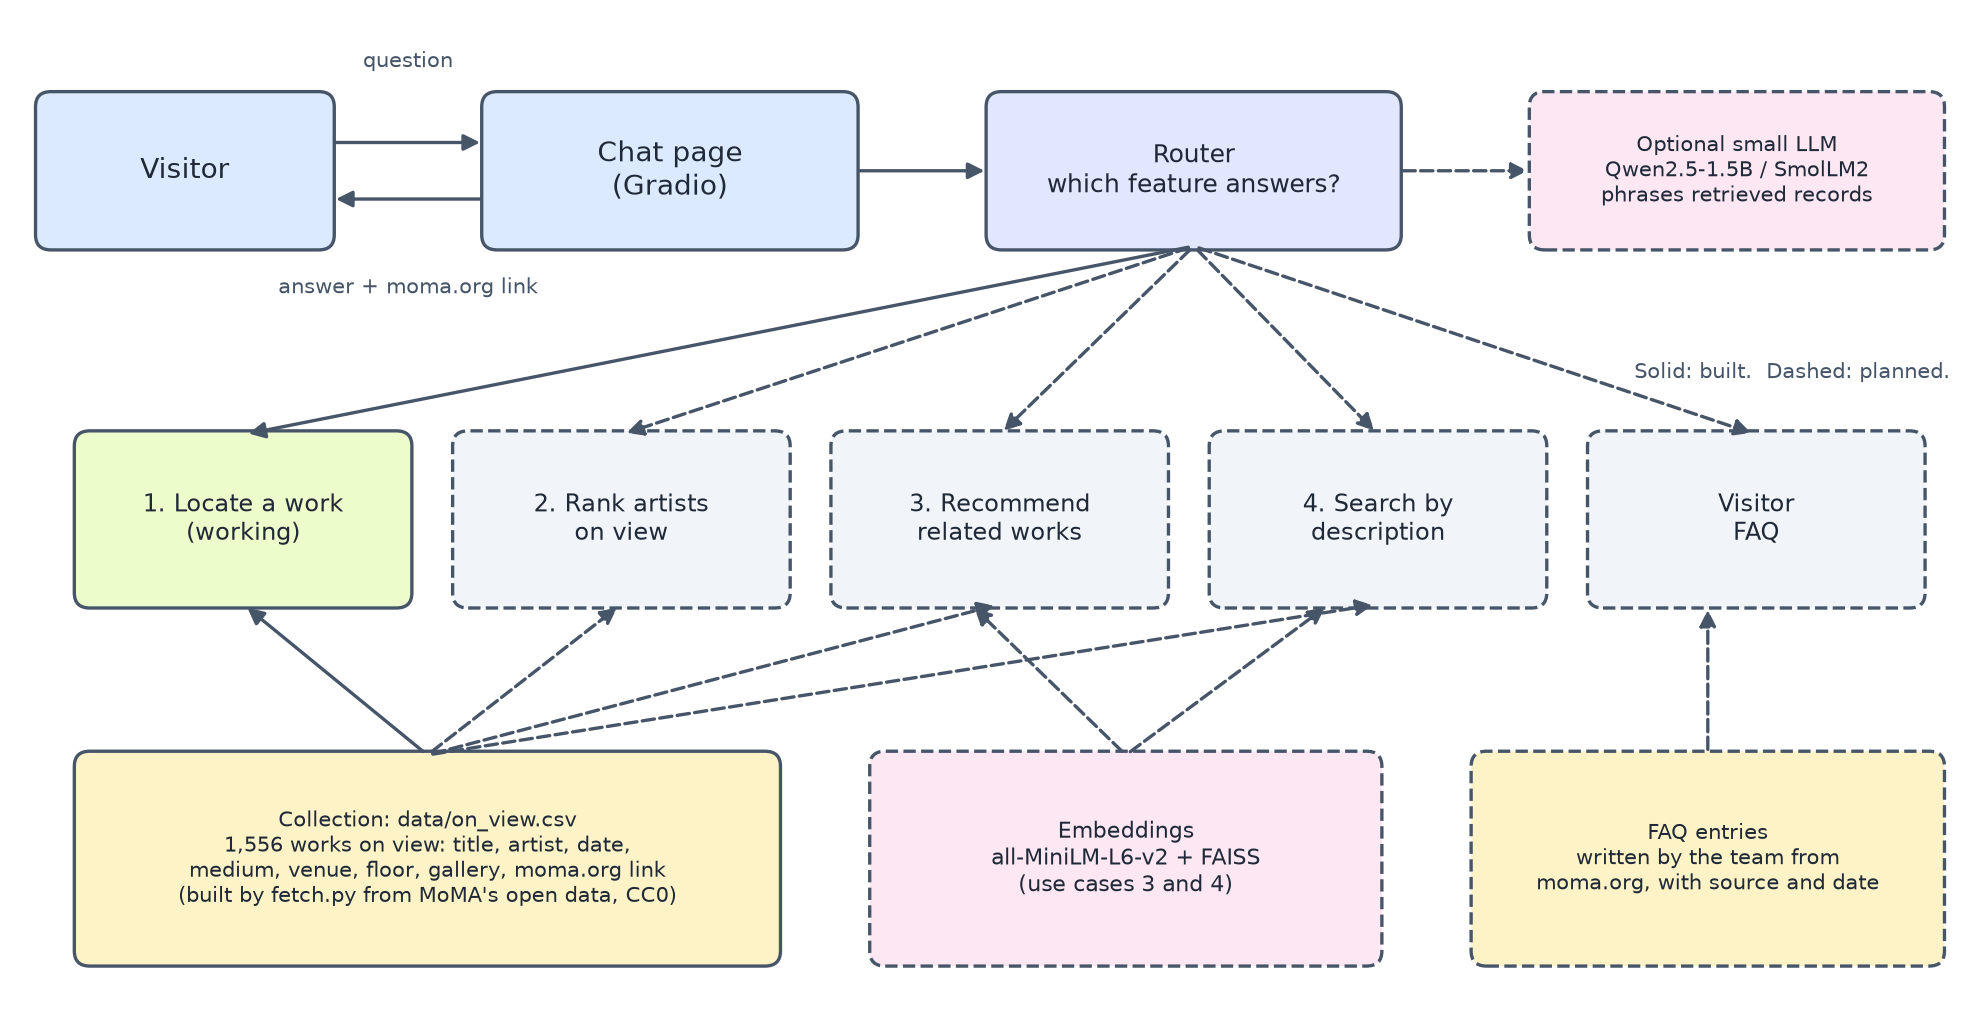
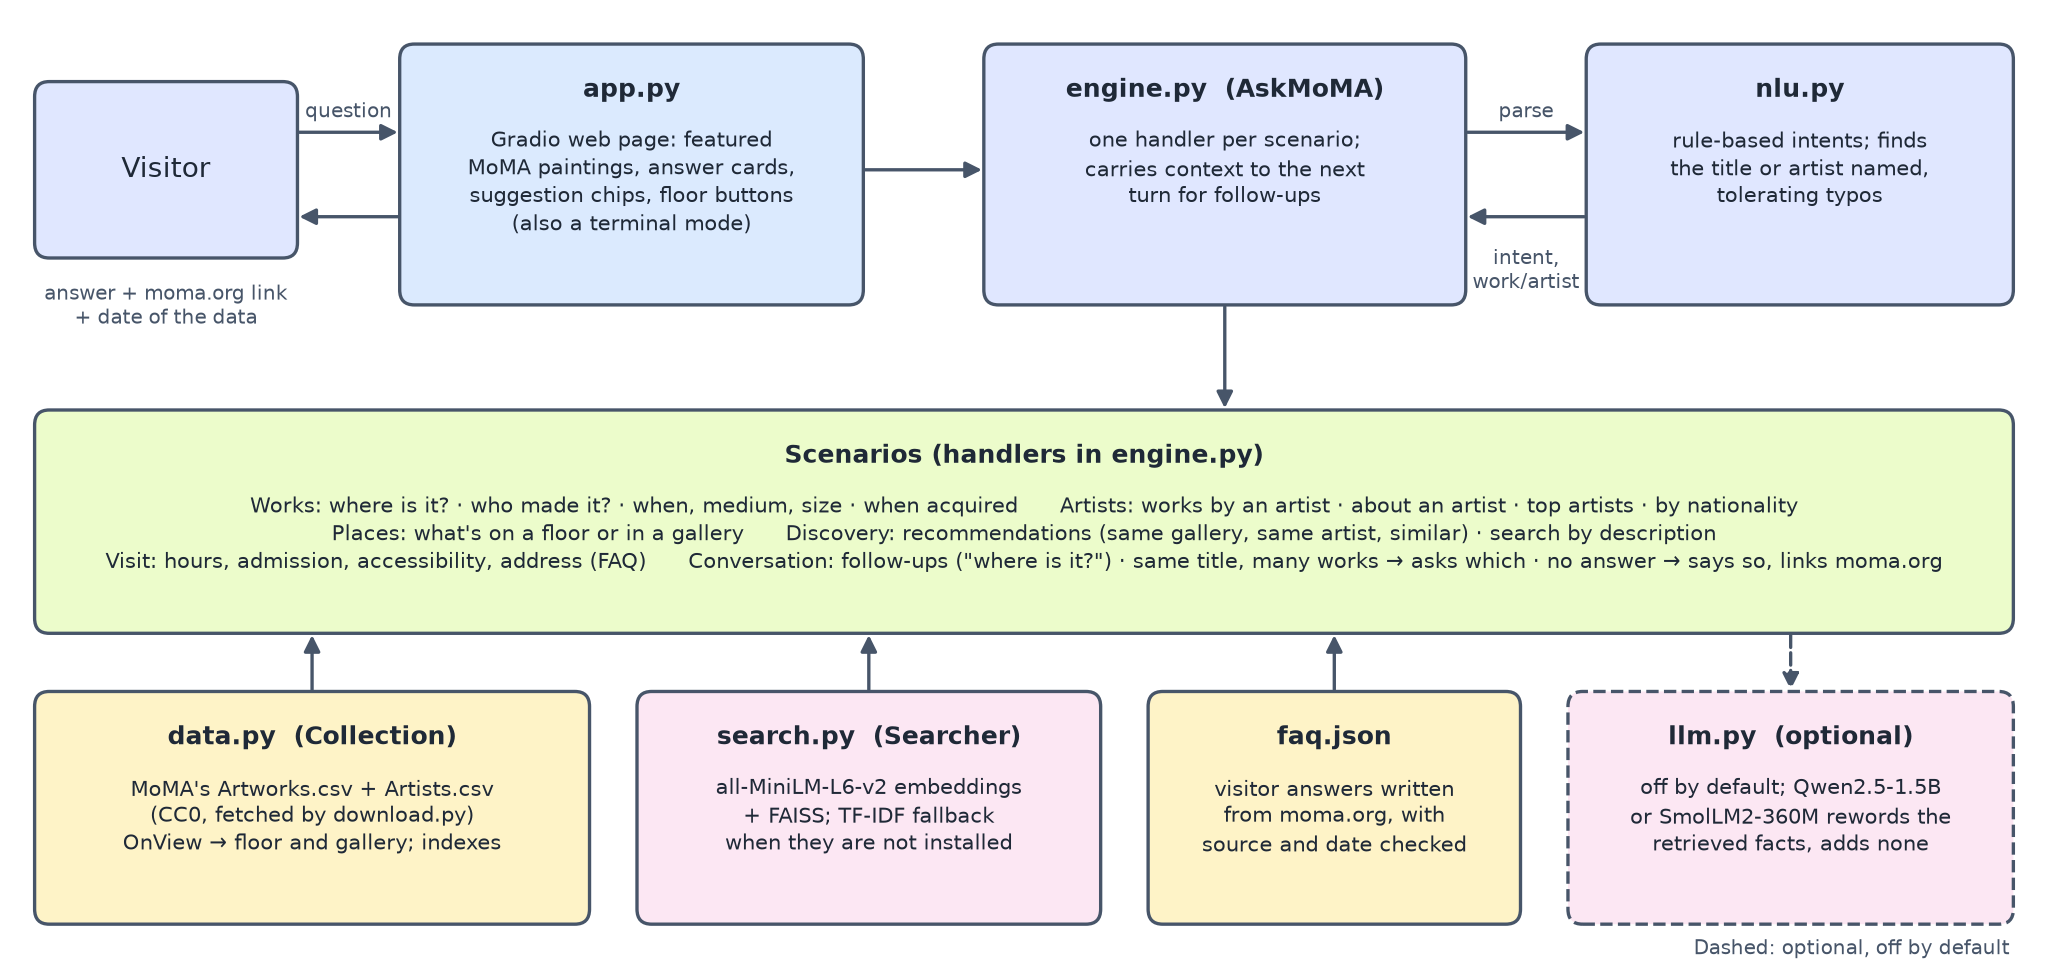
Docs: architecture diagram for the current modules, shown in the README (#1)
* Redraw the architecture diagram for the current modules and show it in the README

The old diagram showed the src/askmoma layout that main no longer uses. The new one shows app.py, engine.py, nlu.py, the scenario handlers, data.py, search.py, faq.json, and the optional llm.py, as they are on main. Docs only: no code changes.

* Show the featured paintings from the UI refresh in the diagram

* Add the featured paintings to the app.py box

The previous commit only re-rendered the image; this adds the text it described.

diff --git a/docs/figures/architecture.py b/docs/figures/architecture.py
@@ -1,6 +1,9 @@
-"""Draw docs/figures/architecture.png, the system diagram used in the design document.
+"""Draw docs/figures/architecture.png, the one system diagram (README and design document).
 
-uv run python docs/figures/architecture.py
+    uv run python docs/figures/architecture.py
+
+It shows the modules in askmoma/ and app.py as they are on main. Update it
+when a module is added or renamed, so the README never shows an old design.
 """
 
 from __future__ import annotations
@@ -15,65 +18,78 @@ from matplotlib.patches import FancyArrowPatch, FancyBboxPatch  # noqa: E402
 
 OUT = Path(__file__).with_suffix(".png")
 INK, LINE = "#1f2937", "#475569"
-FILL = {"ui": "#dbeafe", "logic": "#e0e7ff", "feature": "#ecfccb", "todo": "#f1f5f9",
-        "data": "#fef3c7", "model": "#fce7f3"}  # fmt: skip
+FILL = {"ui": "#dbeafe", "logic": "#e0e7ff", "scenario": "#ecfccb", "data": "#fef3c7", "model": "#fce7f3"}
 
 
-def box(ax, x, y, w, h, text, kind, dashed=False, size=9):
+def box(ax, x, y, w, h, title, body="", kind="logic", dashed=False):
     ax.add_patch(FancyBboxPatch((x, y), w, h, boxstyle="round,pad=0.02,rounding_size=0.08",
                                 facecolor=FILL[kind], edgecolor=LINE, linewidth=1.2,
                                 linestyle="--" if dashed else "-"))  # fmt: skip
-    ax.text(x + w / 2, y + h / 2, text, ha="center", va="center", fontsize=size, color=INK)
+    if body:
+        ax.text(
+            x + w / 2, y + h - 0.16, title, ha="center", va="top", fontsize=9, fontweight="bold", color=INK
+        )
+        ax.text(
+            x + w / 2, y + h - 0.42, body, ha="center", va="top", fontsize=7.4, color=INK, linespacing=1.35
+        )
+    else:
+        ax.text(x + w / 2, y + h / 2, title, ha="center", va="center", fontsize=10, color=INK)
 
 
-def arrow(ax, start, end, dashed=False):
+def arrow(ax, start, end, label="", dashed=False, offset=(0, 0.08)):
     ax.add_patch(FancyArrowPatch(start, end, arrowstyle="-|>", mutation_scale=12, color=LINE,
                                  linewidth=1.2, linestyle="--" if dashed else "-"))  # fmt: skip
+    if label:
+        x, y = (start[0] + end[0]) / 2 + offset[0], (start[1] + end[1]) / 2 + offset[1]
+        ax.text(x, y, label, ha="center", fontsize=7.2, color=LINE)
 
 
 def main() -> None:
-    fig, ax = plt.subplots(figsize=(10, 5.2), dpi=200)
-    ax.set_xlim(0, 10)
-    ax.set_ylim(0, 5.2)
+    fig, ax = plt.subplots(figsize=(11, 5.0), dpi=200)
+    ax.set_xlim(0, 11)
+    ax.set_ylim(0, 5.0)
     ax.axis("off")
 
-    # Top row: the conversation path, and the optional language model beside the router.
-    box(ax, 0.1, 4.0, 1.5, 0.8, "Visitor", "ui", size=10)
-    box(ax, 2.4, 4.0, 1.9, 0.8, "Chat page\n(Gradio)", "ui", size=10)
-    box(ax, 5.0, 4.0, 2.1, 0.8, "Router\nwhich feature answers?", "logic")
-    box(ax, 7.8, 4.0, 2.1, 0.8, "Optional small LLM\nQwen2.5-1.5B / SmolLM2\nphrases retrieved records",
-        "model", dashed=True, size=7.5)  # fmt: skip
-    arrow(ax, (1.6, 4.55), (2.4, 4.55))
-    arrow(ax, (2.4, 4.25), (1.6, 4.25))
-    ax.text(2.0, 4.95, "question", fontsize=7.5, color=LINE, ha="center")
-    ax.text(2.0, 3.75, "answer + moma.org link", fontsize=7.5, color=LINE, ha="center")
-    arrow(ax, (4.3, 4.4), (5.0, 4.4))
-    arrow(ax, (7.1, 4.4), (7.8, 4.4), dashed=True)
+    # Top row: the conversation path.
+    box(ax, 0.1, 3.75, 1.4, 0.9, "Visitor")
+    box(ax, 2.1, 3.5, 2.5, 1.35, "app.py", "Gradio web page: featured\nMoMA paintings, answer cards,\nsuggestion chips, floor buttons\n(also a terminal mode)", "ui")  # fmt: skip
+    box(ax, 5.3, 3.5, 2.6, 1.35, "engine.py  (AskMoMA)", "one handler per scenario;\ncarries context to the next\nturn for follow-ups", "logic")  # fmt: skip
+    box(ax, 8.6, 3.5, 2.3, 1.35, "nlu.py", "rule-based intents; finds\nthe title or artist named,\ntolerating typos", "logic")  # fmt: skip
+    arrow(ax, (1.5, 4.4), (2.1, 4.4), "question")
+    arrow(ax, (2.1, 3.95), (1.5, 3.95))
+    ax.text(
+        0.8,
+        3.6,
+        "answer + moma.org link\n+ date of the data",
+        ha="center",
+        va="top",
+        fontsize=7.2,
+        color=LINE,
+    )
+    arrow(ax, (4.6, 4.2), (5.3, 4.2))
+    arrow(ax, (7.9, 4.4), (8.6, 4.4), "parse")
+    arrow(ax, (8.6, 3.95), (7.9, 3.95), "intent,\nwork/artist", offset=(0, -0.38))
 
-    # Middle row: one module per use case. Solid = built, dashed = planned.
-    features = [("1. Locate a work\n(working)", "feature", False), ("2. Rank artists\non view", "todo", True),
-                ("3. Recommend\nrelated works", "todo", True), ("4. Search by\ndescription", "todo", True),
-                ("Visitor\nFAQ", "todo", True)]  # fmt: skip
-    for i, (label, kind, dashed) in enumerate(features):
-        x = 0.3 + i * 1.95
-        box(ax, x, 2.1, 1.7, 0.9, label, kind, dashed=dashed, size=8.5)
-        arrow(ax, (6.05, 4.0), (x + 0.85, 3.0), dashed=dashed)
+    # Middle: what the handlers answer.
+    box(ax, 0.1, 1.75, 10.8, 1.15, "Scenarios (handlers in engine.py)",
+        "Works: where is it? · who made it? · when, medium, size · when acquired      "
+        "Artists: works by an artist · about an artist · top artists · by nationality\n"
+        "Places: what's on a floor or in a gallery      Discovery: recommendations (same gallery, same artist, similar) · search by description\n"
+        "Visit: hours, admission, accessibility, address (FAQ)      "
+        "Conversation: follow-ups (\"where is it?\") · same title, many works → asks which · no answer → says so, links moma.org",
+        "scenario")  # fmt: skip
+    arrow(ax, (6.6, 3.5), (6.6, 2.9))
 
-    # Bottom row: what the features read.
-    box(ax, 0.3, 0.2, 3.6, 1.1, "Collection: data/on_view.csv\n1,556 works on view: title, artist, date,\n"
-        "medium, venue, floor, gallery, moma.org link\n(built by fetch.py from MoMA's open data, CC0)",
-        "data", size=7.5)  # fmt: skip
-    box(ax, 4.4, 0.2, 2.6, 1.1, "Embeddings\nall-MiniLM-L6-v2 + FAISS\n(use cases 3 and 4)", "model",
-        dashed=True, size=8)  # fmt: skip
-    box(ax, 7.5, 0.2, 2.4, 1.1, "FAQ entries\nwritten by the team from\nmoma.org, with source and date",
-        "data", dashed=True, size=7.5)  # fmt: skip
-    for i in range(4):
-        arrow(ax, (2.1, 1.3), (0.3 + i * 1.95 + 0.85, 2.1), dashed=i > 0)
-    arrow(ax, (5.7, 1.3), (4.9, 2.1), dashed=True)
-    arrow(ax, (5.7, 1.3), (6.75, 2.1), dashed=True)
-    arrow(ax, (8.7, 1.3), (8.7, 2.1), dashed=True)
+    # Bottom: where the facts come from.
+    box(ax, 0.1, 0.2, 3.0, 1.2, "data.py  (Collection)", "MoMA's Artworks.csv + Artists.csv\n(CC0, fetched by download.py)\nOnView → floor and gallery; indexes", "data")  # fmt: skip
+    box(ax, 3.4, 0.2, 2.5, 1.2, "search.py  (Searcher)", "all-MiniLM-L6-v2 embeddings\n+ FAISS; TF-IDF fallback\nwhen they are not installed", "model")  # fmt: skip
+    box(ax, 6.2, 0.2, 2.0, 1.2, "faq.json", "visitor answers written\nfrom moma.org, with\nsource and date checked", "data")  # fmt: skip
+    box(ax, 8.5, 0.2, 2.4, 1.2, "llm.py  (optional)", "off by default; Qwen2.5-1.5B\nor SmolLM2-360M rewords the\nretrieved facts, adds none", "model", dashed=True)  # fmt: skip
+    for x in (1.6, 4.65, 7.2):
+        arrow(ax, (x, 1.4), (x, 1.75))
+    arrow(ax, (9.7, 1.75), (9.7, 1.4), dashed=True)
 
-    ax.text(9.95, 3.3, "Solid: built.  Dashed: planned.", fontsize=7.5, color=LINE, ha="right")
+    ax.text(10.9, 0.02, "Dashed: optional, off by default", fontsize=7.2, color=LINE, ha="right")
     fig.tight_layout()
     fig.savefig(OUT, bbox_inches="tight")
     print(f"wrote {OUT}")

diff --git a/README.md b/README.md
@@ -86,6 +86,10 @@ Typos are tolerated ("starry nite", "Piccaso").
 
 ## 6. Project layout
 
+![AskMoMA architecture: app.py, engine.py, nlu.py, the scenario handlers, and the data, search, FAQ, and optional LLM modules](docs/figures/architecture.png)
+
+The diagram is drawn by `docs/figures/architecture.py` (`uv run python docs/figures/architecture.py`). Update it when a module is added or renamed.
+
 ```
 app.py               Gradio UI + terminal mode
 askmoma/config.py    settings
